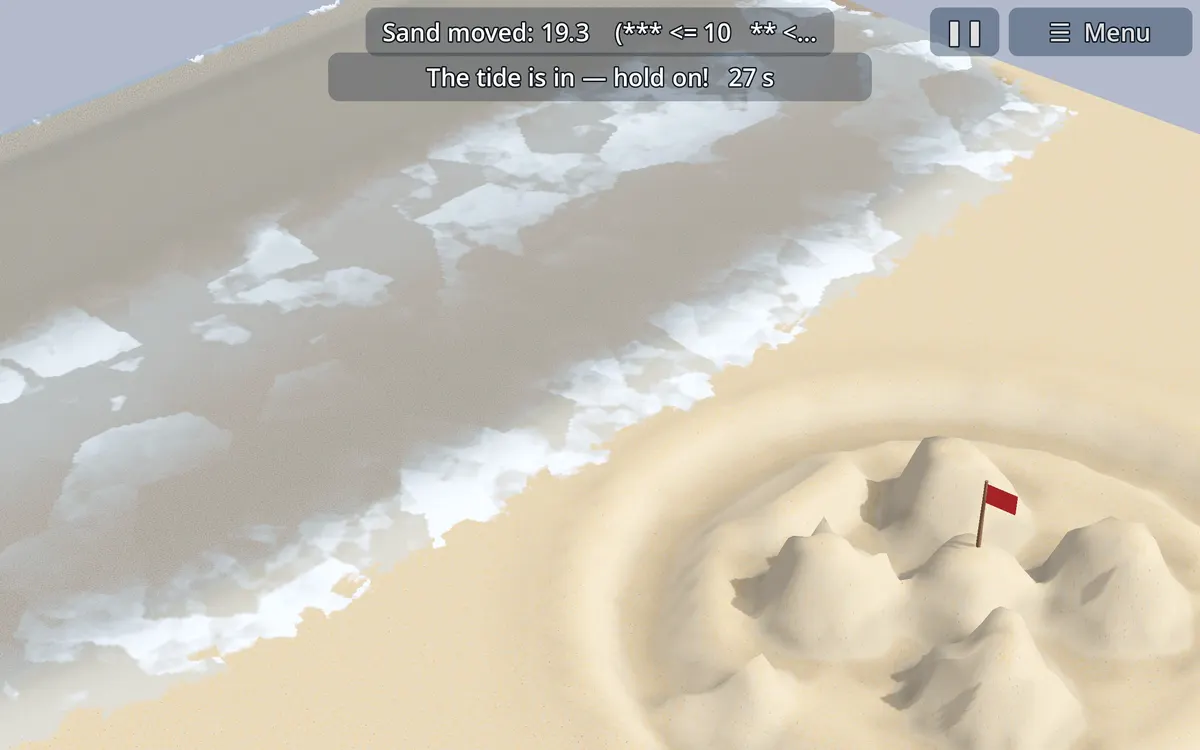
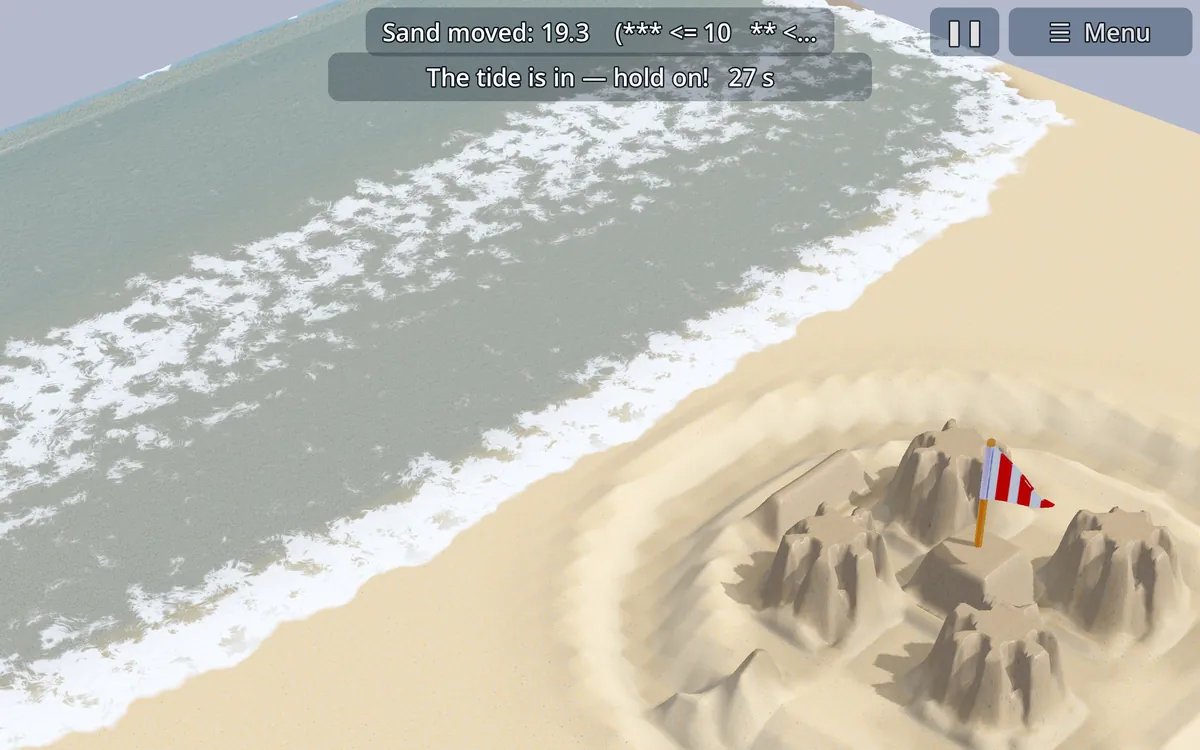
Re-shoot the page screenshots, and say molds are dragged
The five screenshots came from store screenshot masters captured before
the foam was rewritten; the game repo re-captured them (its #164) and the
page was still showing the old blobby foam and the old text tool shelf.
Re-derived from the current android-tablet masters at the same 1200x750
and quality. The water shots roughly double in size — the new foam is
high-frequency detail where the old was flat polygons — but they are
lazy-loaded below the fold.

The Stamp card said "Pick a mold, tap". Molds are dragged off the shelf
now, which this page's own controls copy was alone in not saying.

diff --git a/castles-in-the-sand/index.html b/castles-in-the-sand/index.html
@@ -136,7 +136,7 @@
           </svg>
           <h3>Stamp</h3>
           <p>Press a bucket mold into the sand and lift it clean away.</p>
-          <span class="gesture">Pick a mold, tap</span>
+          <span class="gesture">Drag a mold in</span>
         </div>
       </div>
     </div>

diff --git a/ASSETS.md b/ASSETS.md
@@ -7,7 +7,7 @@ the source and export it again. Don't edit the web copy.
 | --- | --- | --- |
 | `cits-hero.webp`, `cits-hero-800.webp` | castles-in-the-sand `icon.png` (1024², the key art without the title) | Cropped to rows 250–890. The crop leaves out the bottom-right corner, which has a generator watermark sparkle |
 | `og-image.jpg` | same, rows 200–738 | 1200×630 social preview |
-| `cits-02-build.webp`, `cits-04-waves.webp`, `cits-06-hydraulics.webp` | castles-in-the-sand `store/screenshots/android-tablet/*.jpg` | 1200×750 |
+| `cits-02-build.webp`, `cits-04-waves.webp`, `cits-06-hydraulics.webp` | castles-in-the-sand `store/screenshots/android-tablet/*.jpg` | 1200×750, WebP quality 80. Re-derive them whenever that repo re-captures its masters |
 | `necro-key.webp` | cute-fantasy `icon.png` | 900² |
 | `gh-building_house.png`, `gh-barrow_mouth.png`, `gh-wall_tower.png` | topdown-bw `assets/art/*.png` | Shown pixelated on the Goblin Hunt card, which stays a placeholder until there is real key art |
 | `hexmonger-mark.svg` | drawn for this site | Studio mark and favicon |
@@ -22,7 +22,7 @@ Both are under the SIL Open Font License; the license files are in
 | --- | --- | --- |
 | `cits-key-tall*.webp` | castles-in-the-sand `icon.png`, rows 60–900 | Leaves out the watermark in the bottom-right corner |
 | `cits-app-icon.webp` | same, cropped square from the castle and child | Also used as the page favicon. The Play Store icon has the watermark, so it isn't used here |
-| `cits-03-tide.webp`, `cits-05-result.webp` | `store/screenshots/android-tablet/` | 1200×750 |
+| `cits-03-tide.webp`, `cits-05-result.webp` | `store/screenshots/android-tablet/` | 1200×750, WebP quality 80 |
 | `cits-og.jpg` | `store/feature_graphic_1024x500.png` on a sand-coloured 1200×630 canvas | Social preview |
 | `fonts/lilita-one.ttf` | castles-in-the-sand `fonts/` | The game's own display font (SIL OFL). Served unmodified, because the font's name is reserved and a converted copy would need a new name |
 
